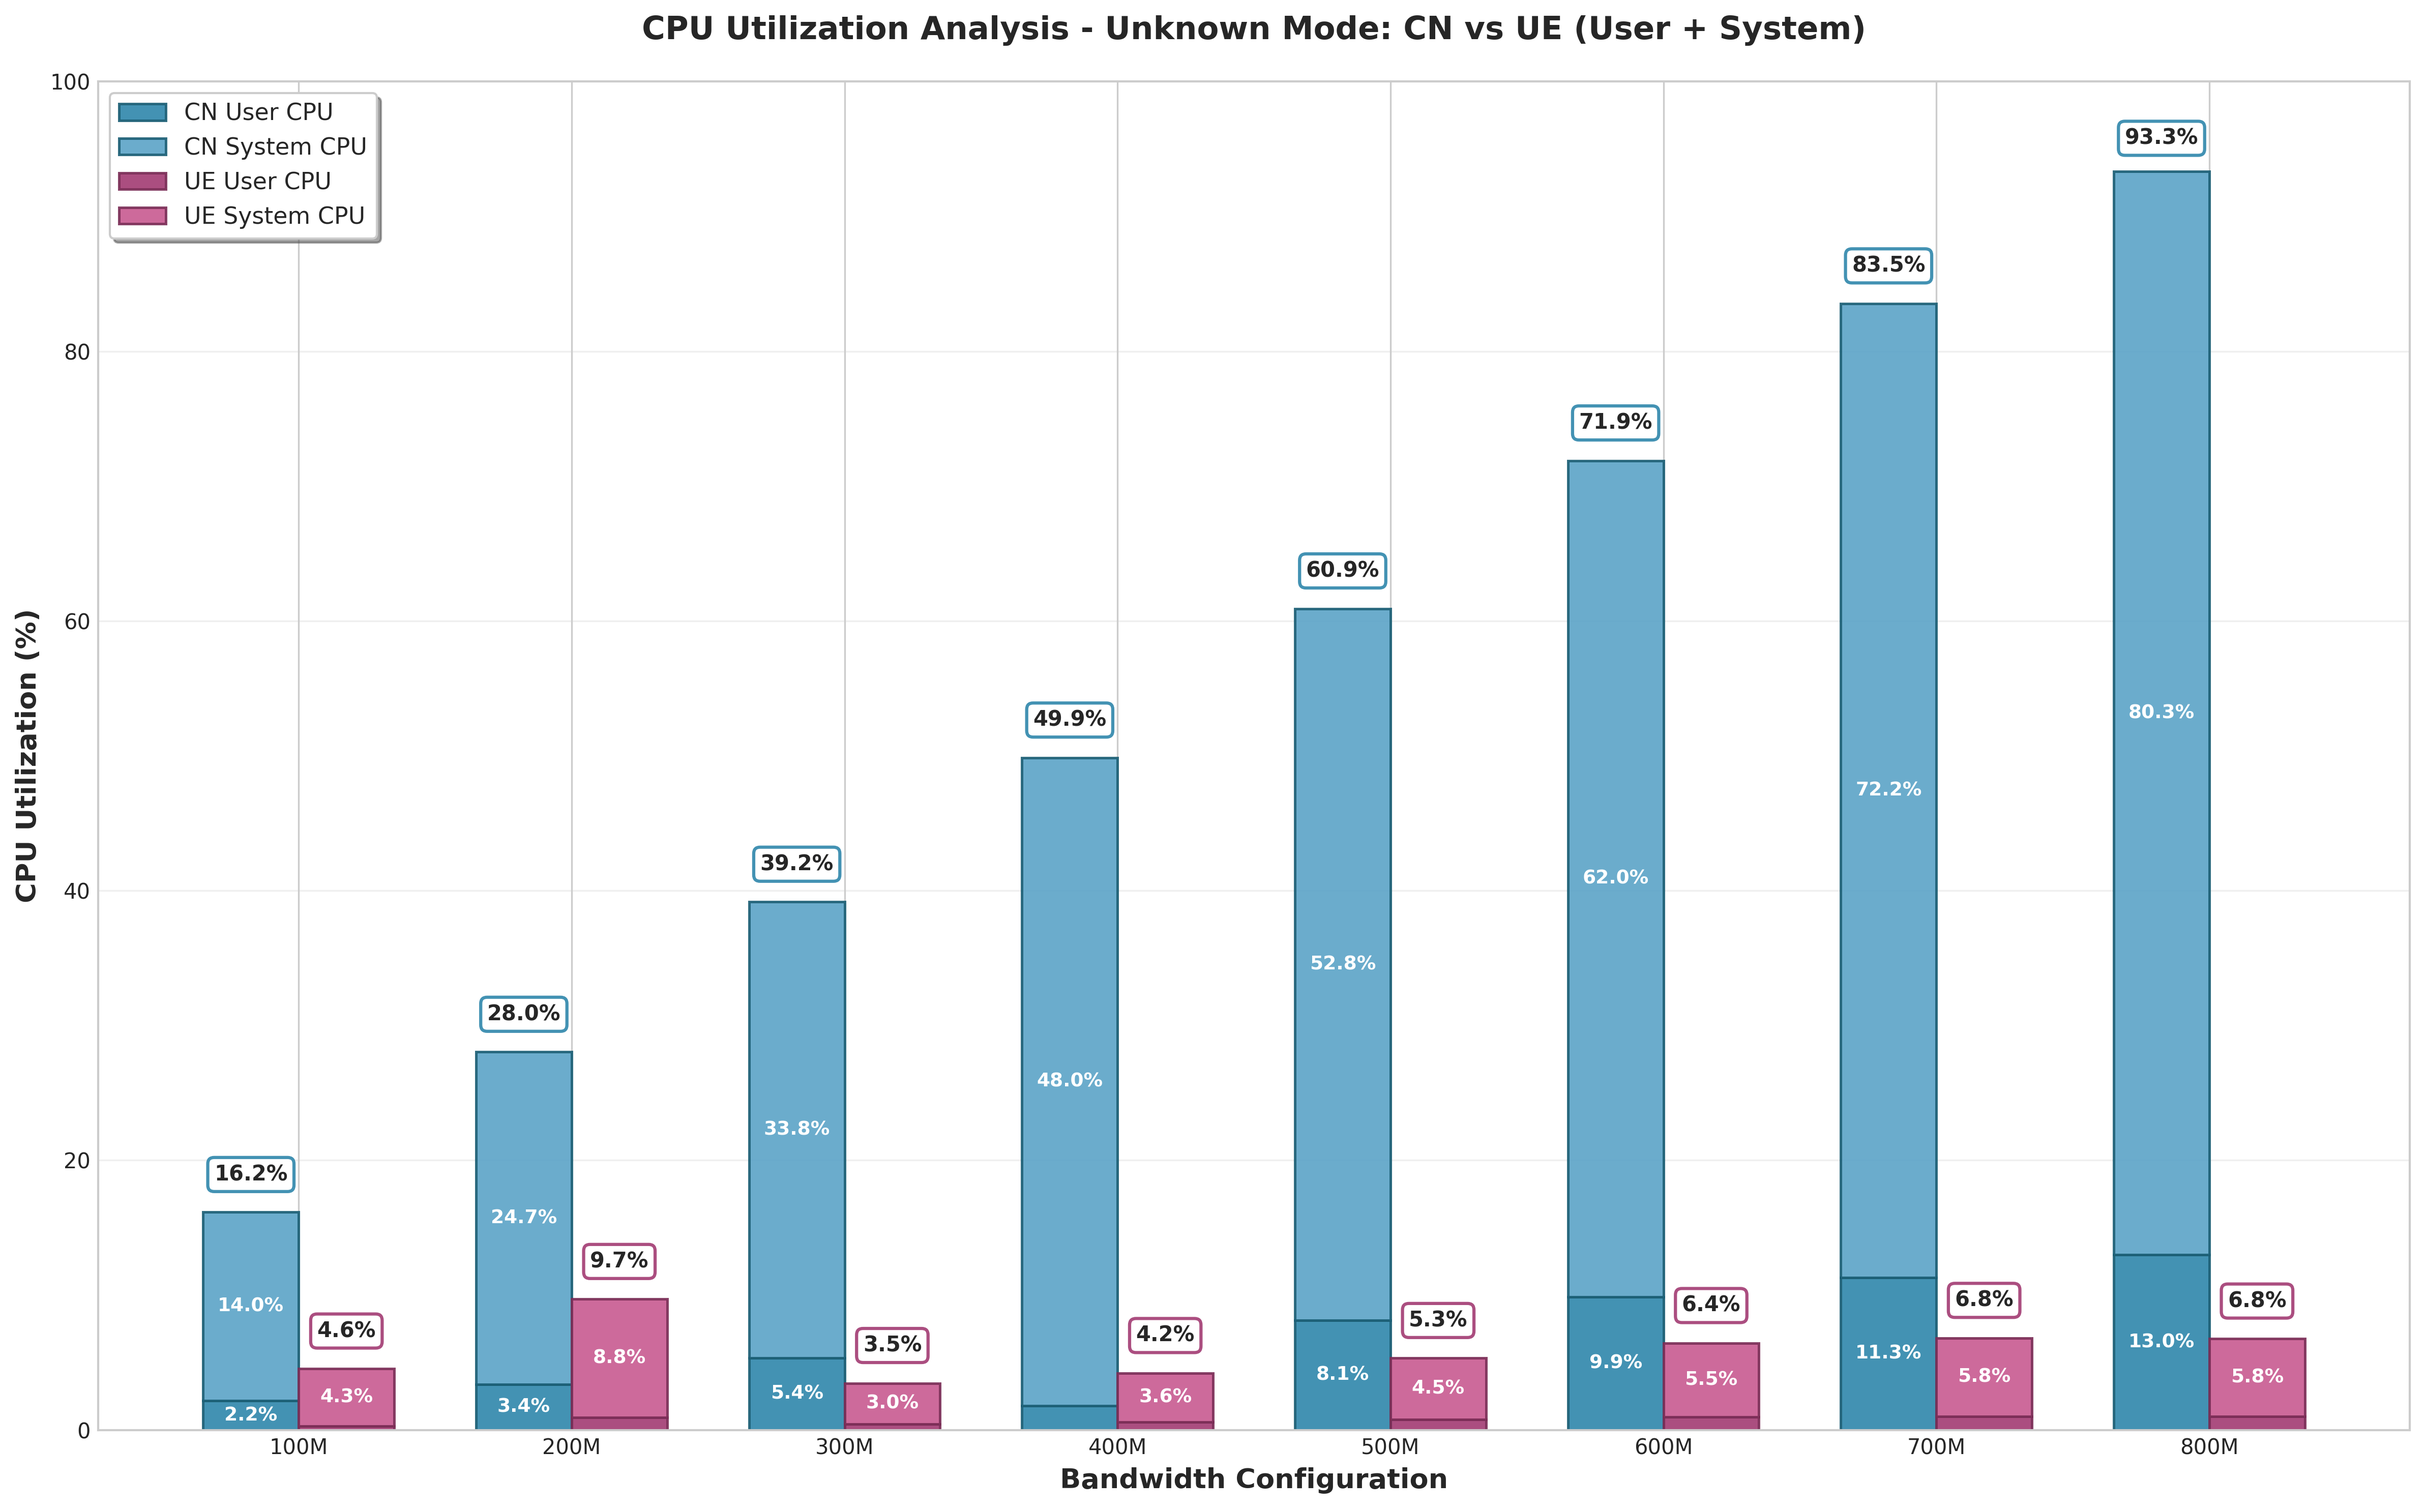
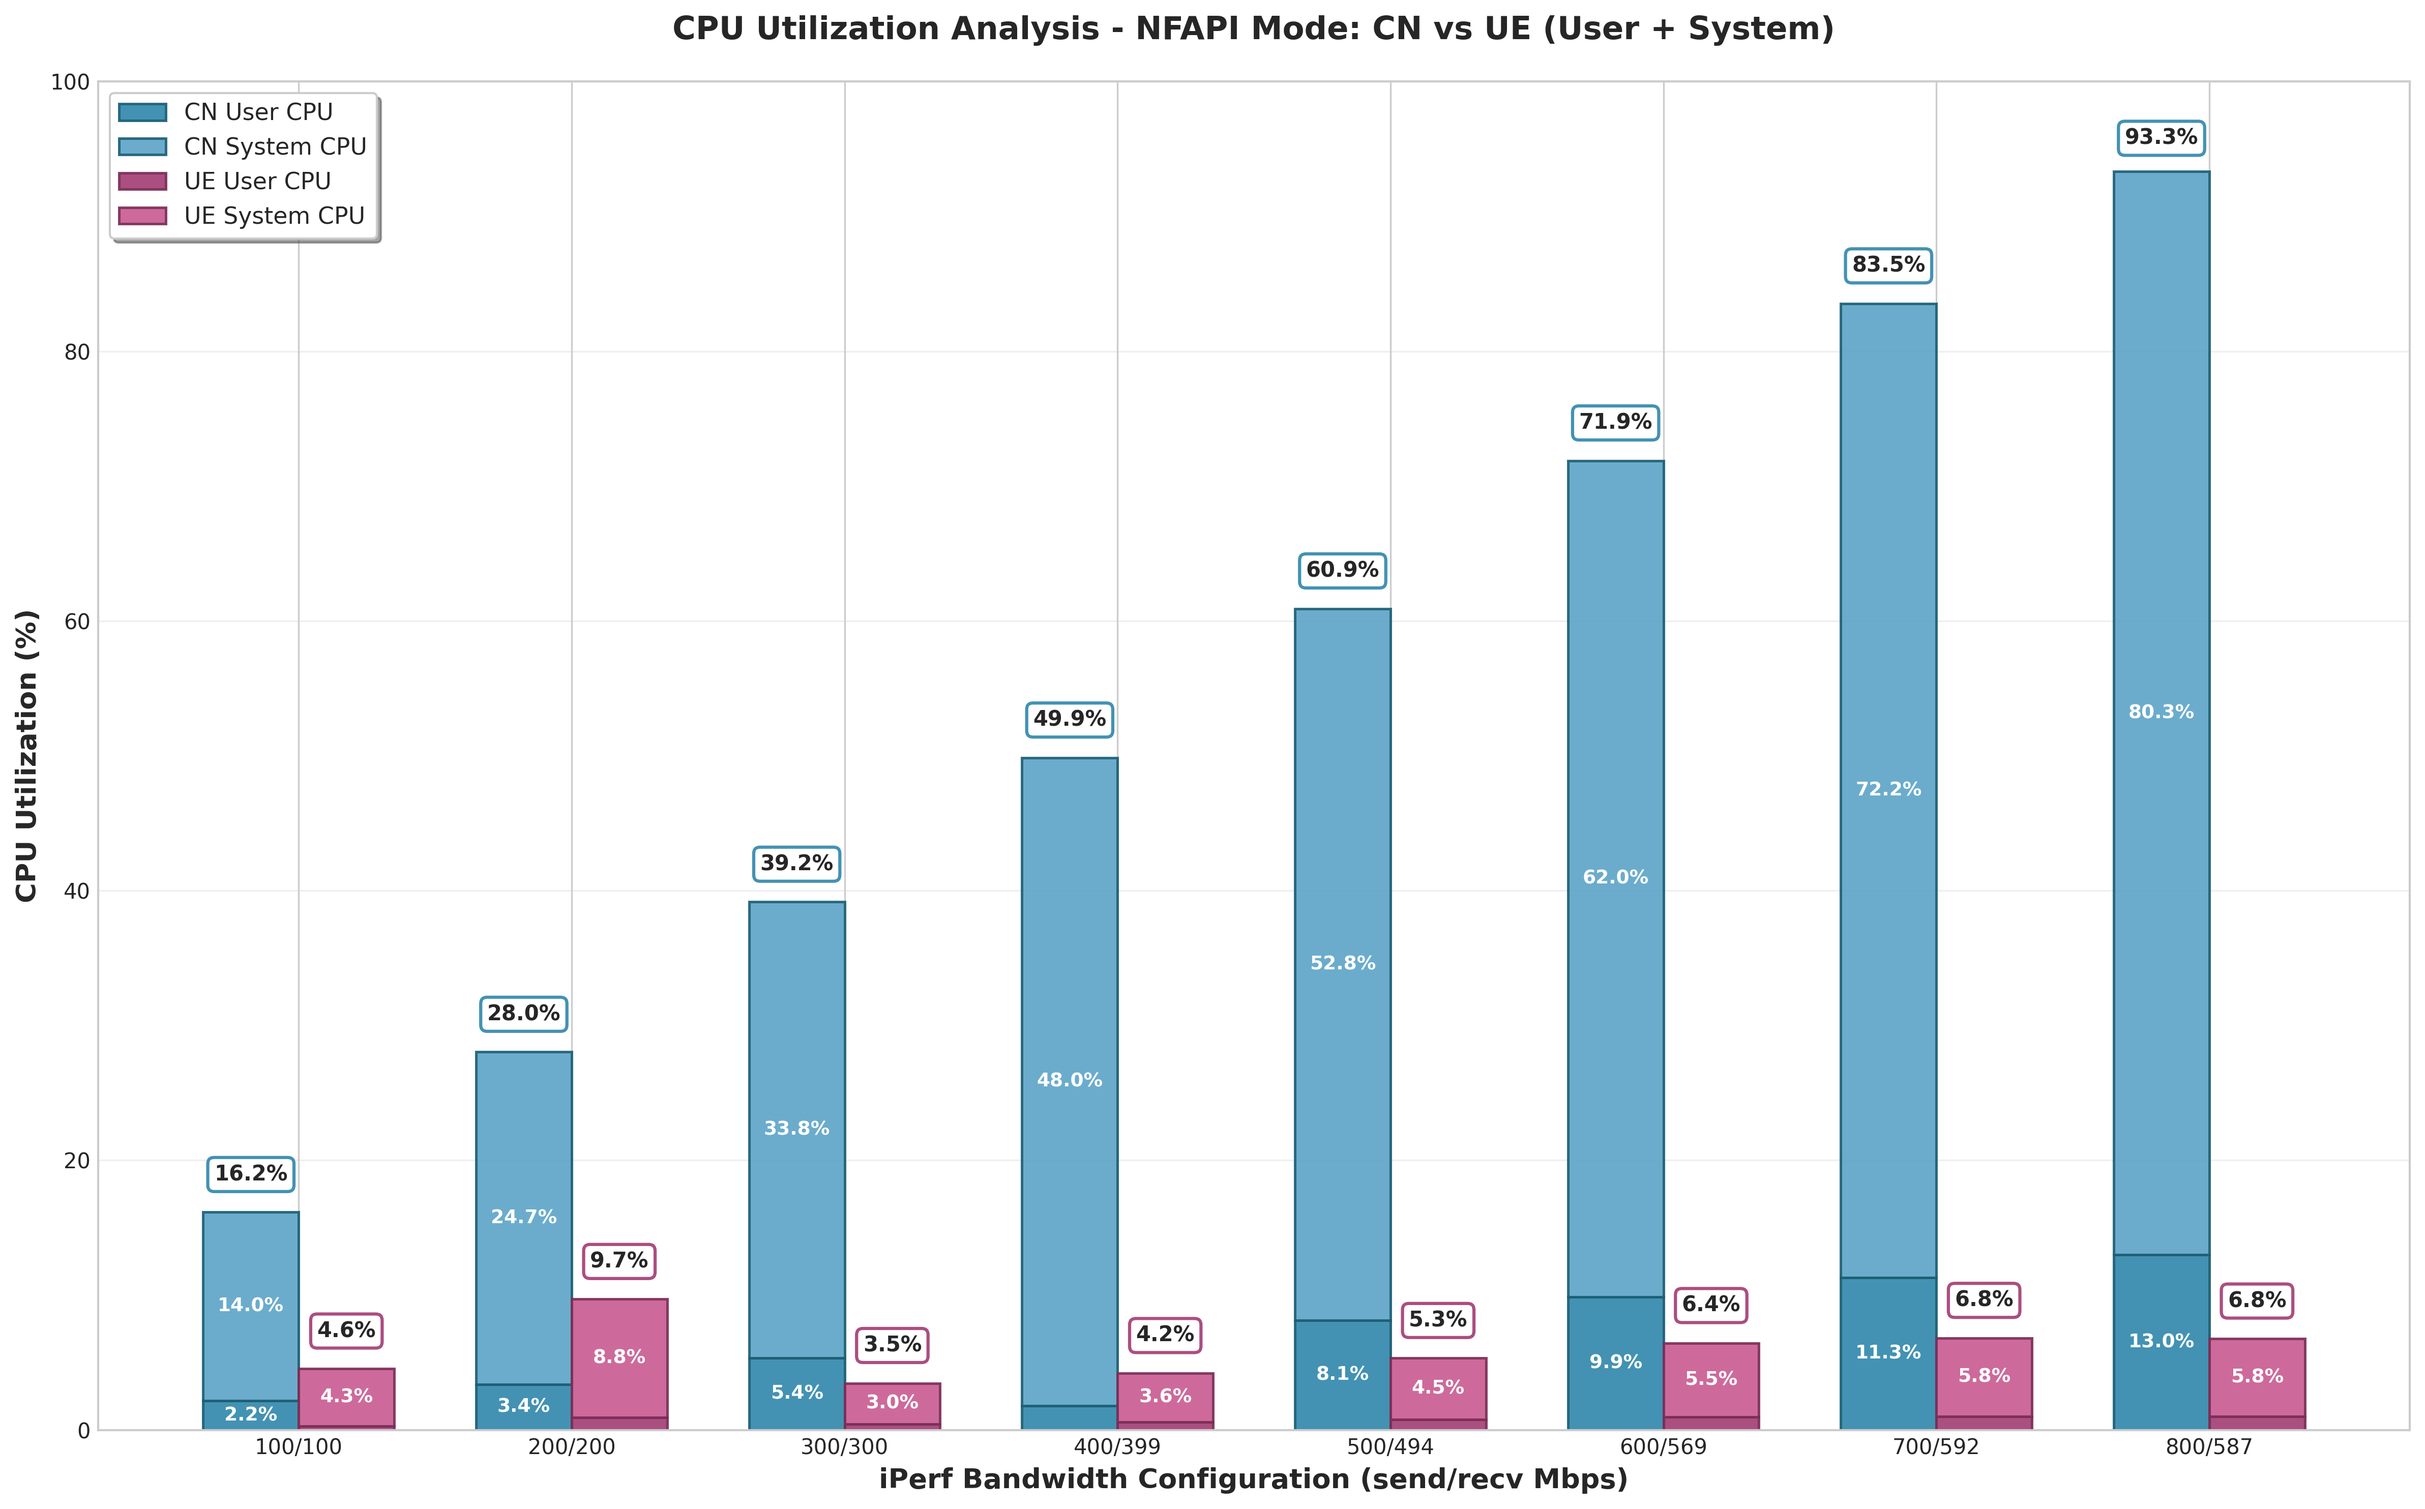
Enhance CPU utilization analysis: add throughput data extraction and improve plot labels

diff --git a/scripts/analyze_cpu_utilization.py b/scripts/analyze_cpu_utilization.py
@@ -40,6 +40,29 @@ def extract_cpu_data(data):
         print(f"Error extracting CPU data: {e}")
         return None
 
+def extract_throughput_data(file_path):
+    """Extract throughput data from iPerf JSON file (borrowed from analyze_throughput.py)"""
+    try:
+        with open(file_path, 'r') as f:
+            data = json.load(f)
+        
+        end_summary = data.get('end', {})
+        sum_sent = end_summary.get('sum_sent', {})
+        sum_received = end_summary.get('sum_received', {})
+        
+        # For CN data, use bits_per_second from sum section if available
+        cn_bits_per_second = end_summary.get('sum', {}).get('bits_per_second', 0)
+        if cn_bits_per_second == 0:
+            cn_bits_per_second = sum_sent.get('bits_per_second', 0)
+        
+        return {
+            'sent_mbps': cn_bits_per_second / 1_000_000,
+            'received_mbps': sum_received.get('bits_per_second', 0) / 1_000_000,
+        }
+    except Exception as e:
+        print(f"Error extracting throughput data from {file_path}: {e}")
+        return None
+
 def get_bandwidth_configs(data_dir):
     """Find all bandwidth configuration directories"""
     configs = []
@@ -73,18 +96,99 @@ def find_iperf_files(data_dir, bandwidth_val):
     
     return cn_file, ue_file
 
-def create_cpu_analysis_plot(results_dict, output_dir):
+def find_iperf_files_for_bandwidth(data_dir, bandwidth_val):
+    """Find CN and UE iPerf files for throughput data"""
+    cn_file = None
+    ue_file = None
+    
+    # Multiple patterns to search for files
+    cn_patterns = [
+        f'*CN*{bandwidth_val}M*.json',
+        f'*CN*{bandwidth_val}*.json',
+        f'*cn*{bandwidth_val}m*.json',
+        f'*{bandwidth_val}*CN*.json',
+        f'*{bandwidth_val}*cn*.json'
+    ]
+    
+    ue_patterns = [
+        f'*UE*{bandwidth_val}M*.json', 
+        f'*UE*{bandwidth_val}*.json',
+        f'*ue*{bandwidth_val}m*.json',
+        f'*{bandwidth_val}*UE*.json',
+        f'*{bandwidth_val}*ue*.json'
+    ]
+    
+    # Search for CN files
+    for pattern in cn_patterns:
+        for file_path in data_dir.glob(pattern):
+            if 'iperf' in file_path.name.lower():
+                cn_file = file_path
+                break
+        if cn_file:
+            break
+    
+    # Search for UE files
+    for pattern in ue_patterns:
+        for file_path in data_dir.glob(pattern):
+            if 'iperf' in file_path.name.lower():
+                ue_file = file_path
+                break
+        if ue_file:
+            break
+    
+    return cn_file, ue_file
+
+def get_throughput_data_for_bandwidths(data_dir, bandwidths):
+    """Get throughput data for all bandwidth configurations"""
+    throughput_data = {}
+    
+    for bandwidth_val in bandwidths:
+        cn_file, ue_file = find_iperf_files_for_bandwidth(data_dir, bandwidth_val)
+        
+        cn_data = None
+        ue_data = None
+        
+        if cn_file:
+            cn_data = extract_throughput_data(cn_file)
+        
+        if ue_file:
+            ue_data = extract_throughput_data(ue_file)
+        
+        throughput_data[bandwidth_val] = {
+            'cn_sent': cn_data['sent_mbps'] if cn_data else 0,
+            'ue_received': ue_data['received_mbps'] if ue_data else 0
+        }
+    
+    return throughput_data
+
+def create_cpu_analysis_plot(results_dict, data_dir, output_dir):
     """Create comprehensive CPU utilization analysis visualization"""
     
     plt.style.use('seaborn-v0_8-whitegrid')
     
     bandwidths = sorted(results_dict.keys())
-    labels = [f"{bw}M" for bw in bandwidths]
+    
+    # Get throughput data for enhanced labels
+    throughput_data = get_throughput_data_for_bandwidths(data_dir, bandwidths)
+    
+    # Create enhanced labels with throughput information (send/recv format)
+    labels = []
+    for bw in bandwidths:
+        if bw in throughput_data:
+            recv_mbps = throughput_data[bw]['ue_received']
+            sent_mbps = throughput_data[bw]['cn_sent']
+            if recv_mbps > 0 and sent_mbps > 0:
+                labels.append(f"{sent_mbps:.0f}/{recv_mbps:.0f}")
+            else:
+                labels.append(f"{bw}M")
+        else:
+            labels.append(f"{bw}M")
+    
     x_pos = np.arange(len(labels))
     width = 0.35  # Slightly wider bars for better visibility
     
     # Extract mode from output directory
-    mode = extract_mode_from_folder(output_dir.parent) if hasattr(output_dir, 'parent') else "Unknown"
+    mode = extract_mode_from_folder(data_dir)
     
     # Enhanced Total CPU Utilization with Stacked Bars and User Values
     fig1, ax1 = plt.subplots(figsize=(16, 10))
@@ -106,7 +210,7 @@ def create_cpu_analysis_plot(results_dict, output_dir):
     bars2_system = ax1.bar(x_pos + width/2, ue_system, width, bottom=ue_user, label='UE System CPU',
                           color='#C85A90', alpha=0.9, edgecolor='#7A2D56', linewidth=1.2)
     
-    ax1.set_xlabel('Bandwidth Configuration', fontsize=13, fontweight='bold')
+    ax1.set_xlabel('iPerf Bandwidth Configuration (send/recv Mbps)', fontsize=13, fontweight='bold')
     ax1.set_ylabel('CPU Utilization (%)', fontsize=13, fontweight='bold')
     ax1.set_title(f'CPU Utilization Analysis - {mode} Mode: CN vs UE (User + System)', 
                   fontsize=15, fontweight='bold', pad=20)
@@ -161,11 +265,11 @@ def create_cpu_analysis_plot(results_dict, output_dir):
     
     # Create enhanced summary table with more detailed breakdown
     table_data = []
-    for bw in bandwidths:
+    for i, bw in enumerate(bandwidths):
         cn_data = results_dict[bw]['cn']
         ue_data = results_dict[bw]['ue']
         row = [
-            f"{bw}M",
+            labels[i],  # Use the same send/recv format for table
             f"{cn_data['host_total']:.1f}" if cn_data else "N/A",
             f"{cn_data['host_user']:.1f}" if cn_data else "N/A",
             f"{cn_data['host_system']:.1f}" if cn_data else "N/A",
@@ -178,7 +282,7 @@ def create_cpu_analysis_plot(results_dict, output_dir):
     
     table = ax2.table(
         cellText=table_data,
-        colLabels=['Bandwidth', 'CN Total', 'CN User', 'CN System', 'UE Total', 'UE User', 'UE System', 'Difference'],
+        colLabels=['Bandwidth (send/recv)', 'CN Total', 'CN User', 'CN System', 'UE Total', 'UE User', 'UE System', 'Difference'],
         loc='center',
         cellLoc='center'
     )
@@ -203,17 +307,20 @@ def create_cpu_analysis_plot(results_dict, output_dir):
     return [output_file1, output_file2]
 
 def extract_mode_from_folder(folder_path):
-    """Extract mode from folder name"""
-    try:
-        folder_name = Path(folder_path).name
-        if '-' in folder_name:
-            parts = folder_name.split('-')
-            if len(parts) >= 2:
-                mode_part = parts[1].split('(')[0]
-                return mode_part
-    except:
-        pass
-    return "Unknown"
+    """Extract mode from folder name - simplified and reliable"""
+    folder_name = Path(folder_path).name
+    
+    # Handle date prefix pattern: YYYYMMDD-MODE
+    if len(folder_name) > 8 and folder_name[8:9] == '-':
+        folder_name = folder_name[9:]
+    
+    # Extract mode before parentheses or first part
+    if '(' in folder_name:
+        mode = folder_name.split('(')[0].strip().rstrip('-')
+    else:
+        mode = folder_name.split('-')[0] if '-' in folder_name else folder_name
+    
+    return mode.strip() if mode.strip() else "Unknown"
 
 def analyze_cpu_utilization(data_dir=None):
     """Main function to analyze CPU utilization across bandwidth configurations"""
@@ -269,7 +376,7 @@ def analyze_cpu_utilization(data_dir=None):
     # Create visualization
     if results_dict:
         print("📈 Creating CPU utilization visualizations...")
-        output_files = create_cpu_analysis_plot(results_dict, output_dir)
+        output_files = create_cpu_analysis_plot(results_dict, data_dir, output_dir)
         print(f"✅ CPU analysis complete! Generated {len(output_files)} plots in {output_dir}")
         if log_file:
             print(f"📋 Log file saved to: {log_file}")
